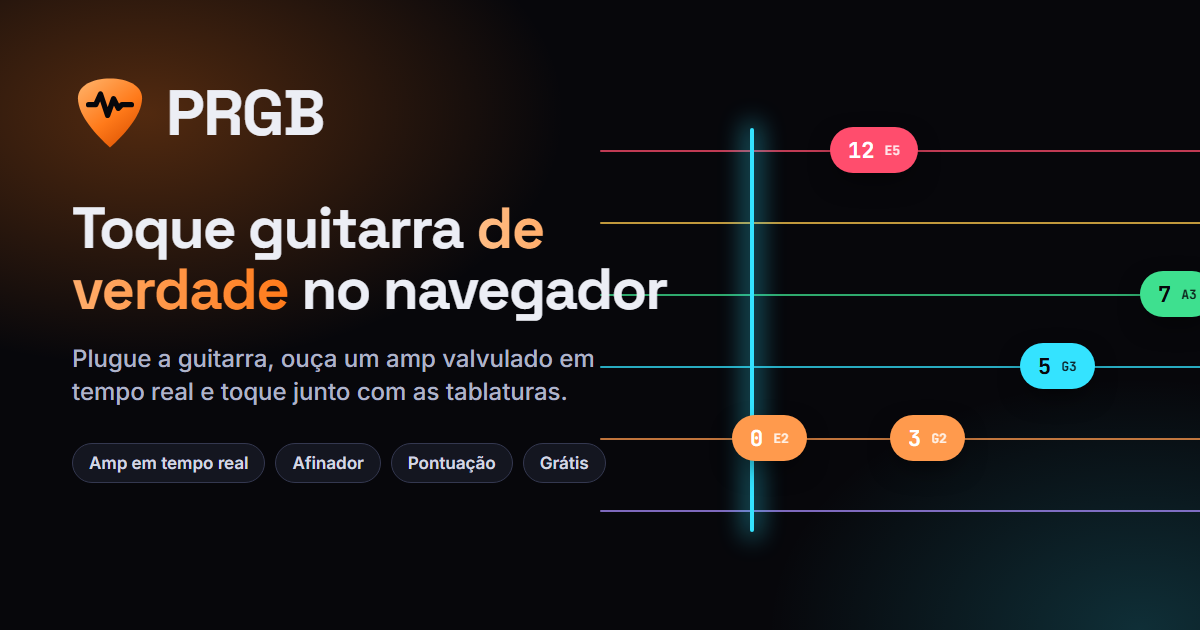
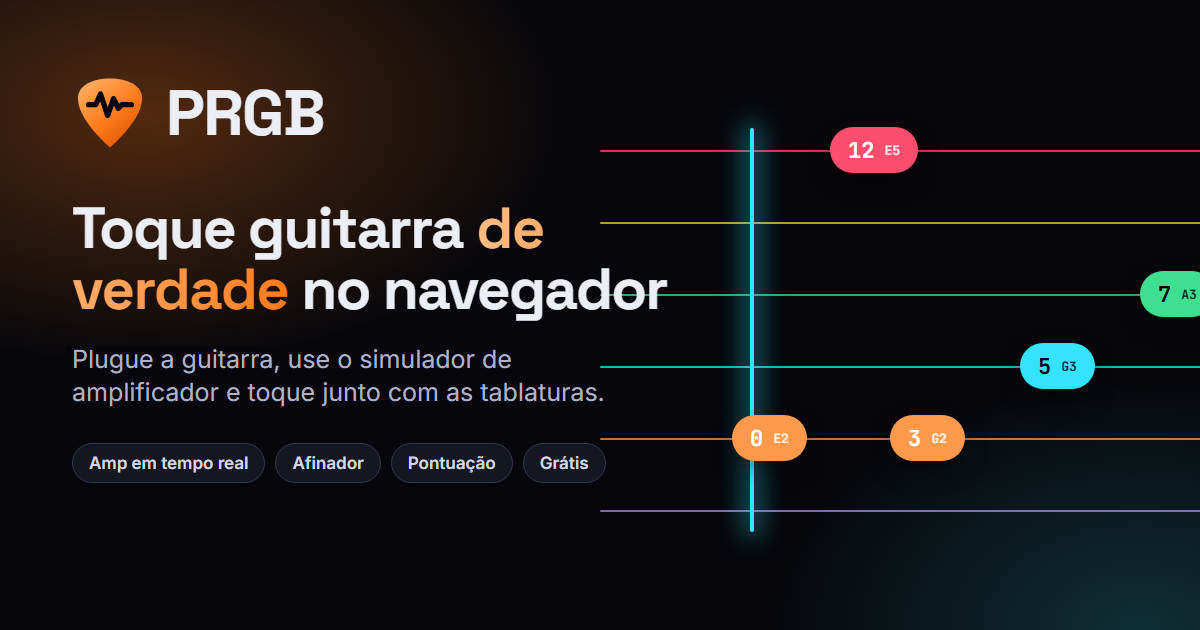
fix(content): drop the vacuum-tube claim from the share image
The share image still said 'amp valvulado'. Only the subtitle changed. AGENTS.md records the acervo rate-limit rule published on Vercel and the abuse_limits migration already in production.

Changed region(s): [[0.0617, 0.5429, 0.4933, 0.6635]]

diff --git a/AGENTS.md b/AGENTS.md
@@ -460,7 +460,7 @@ Formato: `- [ ] **Item** — descrição` + `(@agente, rodada, branch, status)`.
 - [x] **Limites de abuso no banco** — `rpc_quota` por jogador e hora (`create_profile` 5, `update_nickname` 10, `join_room` 30, `export_my_data` 10), mesmo texto de relato no máximo 3 vezes por hora, histórico do pg_cron apagado em 30 dias. Só chamadas bem-sucedidas contam (@claude; testado em PGlite; **migration ainda não aplicada em produção**)
 - [x] **Acessibilidade e 404** — rótulo visível na busca, aviso de carregamento do modelo neural, alvos de 44 px e página não encontrada para caminhos fora da raiz (@codex, revisado por @claude)
 - [x] **Operação** — `docs/operacao.md` (inventário, MFA, plano de incidente, backup, rotação de chaves), `scripts/backup-db.sh`, README e CHANGELOG atualizados (@claude; o script de backup não foi testado)
-- [ ] **Aplicar a migration de limites** — `20261110120000_abuse_limits.sql` reescreve cinco RPCs em produção (as quatro com limite e `submit_feedback`); aplicar uma por vez no SQL Editor e conferir o job do cron (@claude, depende do humano)
+- [x] **Aplicar a migration de limites** — `rpc_quota` e os jobs `prgb-rpc-quota-retention` e `prgb-cron-history-retention` existem em produção (conferido por SQL em 2026-11-19); o histórico do CLI Supabase não lista a migration, como as outras aplicadas pelo SQL Editor (@claude)
 - [ ] **Chave pública do Supabase no formato antigo** — o bundle usa a chave `anon` legada (JWT); o fornecedor anunciou o fim das chaves legadas para o fim de 2026 (a confirmar). Migrar para a chave publicável e rever o uso da service role no `register-part` (@claude)
 - [ ] **Backup restaurável** — o plano gratuito não tem backup; ensaiar o `scripts/backup-db.sh` e uma restauração num projeto descartável (@claude/humano)
 - [ ] **Monitoramento externo** — sem monitor de queda nem alerta; criar um monitor gratuito para o site (humano)
@@ -500,8 +500,9 @@ Formato: `- [ ] **Item** — descrição` + `(@agente, rodada, branch, status)`.
 - [x] **Revisão crítica** — seis revisores independentes, só leitura: 89 achados, nenhum de segurança crítico ou alto. Relatório com dono e plano de correção em `docs/revisao-critica.md` (@claude)
 - [x] **Segurança e documentação (F6)** — backup local com 7 dias e sem `play_sessions` (SEG-02); `image` do meta validado em `tabsApi.ts` e `tabNormalizer.ts` (SEG-05); textos do anfitrião na sala filtrados por `textSafety.ts` (SEG-06); riscos aceitos e procedimentos (moderação por SQL, cotas, rate limit, origens) em `docs/operacao.md` seção 11 (SEG-01/03/04/08/10); README, mapas do AGENTS.md e do CLAUDE.md, CHANGELOG, metadados do `index.html`, documentos de identidade como histórico e nomes de terceiros fora de comentários e fixtures (ENG-05, CONT-04/07/08/10/11/17/18) (@claude; testado só por testes e build)
 - [ ] **Limite por tentativa falha (SEG-03)** — `update_nickname`, `create_profile` e `join_room` só contam chamadas bem-sucedidas; decisão de não entregar migration agora e a alternativa estão em `docs/operacao.md` seção 11.2 (@claude, decisão do humano)
-- [ ] **Imagem de compartilhamento (CONT-01)** — `public/og-image.png` ainda diz "amp valvulado"; regerar com "simulador de amplificador" (humano)
-- [ ] **Rate limit no Vercel Firewall (SEG-08)** e **texto legal sobre o backup local e o envio automático ao ranking (SEG-02, SEG-07b)** — ações e decisões do humano; `LEGAL_VERSION` não foi alterado
+- [x] **Imagem de compartilhamento (CONT-01)** — `public/og-image.png` regerada em 2026-11-19 com "simulador de amplificador" (só o subtítulo mudou; @claude)
+- [x] **Rate limit no Vercel Firewall (SEG-08)** — regra `Limite do acervo` publicada em 2026-11-19: 60 requisições por minuto por IP em `/api/tabs`, `/cdn/tabs` e `/cdn2/tabs`, negando o excesso (@claude; não testado com tráfego real)
+- [ ] **Texto legal sobre o backup local e o envio automático ao ranking (SEG-02, SEG-07b)** — ações e decisões do humano; `LEGAL_VERSION` não foi alterado
 - [x] **Jogo (F1)** — confirmação ao sair, legenda da 1ª partida, ajustes da sessão mantidos (`sessionSettings.ts`), timeout de 10 s no ranking (`RANKING_TIMEOUT_MS`; verificação automática silenciosa com `prepare(true)` e `abandonAutomatic()`), `judgeNotes()` separado do desenho no `PracticeGame` com `createLayer` (em `practiceLanes.ts`) para navegadores sem `OffscreenCanvas`, treino sem nota perdida na virada da volta, `AudioRouteNotice` no jogo (CORE-01, 03, 04, 07, 09, 10, 11; UX-02, 04, 07, 14, 15, 18, 19, 24, 25; SEG-07a) (@claude; testado no Edge com o build e por vitest; **não testado**: rede pendurada de verdade, Safari antigo, celular real, guitarra real)
 - [x] **Áudio (F2)** — interface desconectada detectada pelo `ended` da track (`setDisconnectListener`), saída indisponível com aviso, MediaStream liberado se a abertura falha, volume com 4 casas, Play Free com a leitura do pitch isolada, rack do amp sem alegações (CORE-02, 05, 06, 08, 12; CONT-17; UX-13, 24; A11Y-02, 08) (@claude; vitest com os 4 testes novos falhando no código antigo; **não testado**: USB real, Firefox, navegador)
 - [x] **Interface (F3)** — `LazyScreen`/`lazyWithRetry`/`LazyErrorBoundary`, "Tocar agora" com áudio, landing em grupos, nomes padronizados, estrelas e precisão explicadas, repertório com "Vale para o ranking", Aparência em português, alvos de 44 px (UX-01, 03, 05, 06, 08, 09, 11, 12, 13, 16, 17, 20, 21, 22, 23; ENG-02, 03, 08, 09; CONT-05; A11Y-01 a 05, 07) (@claude; testado no Edge com o build: landing em 320/390/1280 px, "Tocar agora" pedindo o microfone, falha de chunk com "Tentar de novo"; **não testado**: Firefox, Safari, celular real, leitor de tela)
